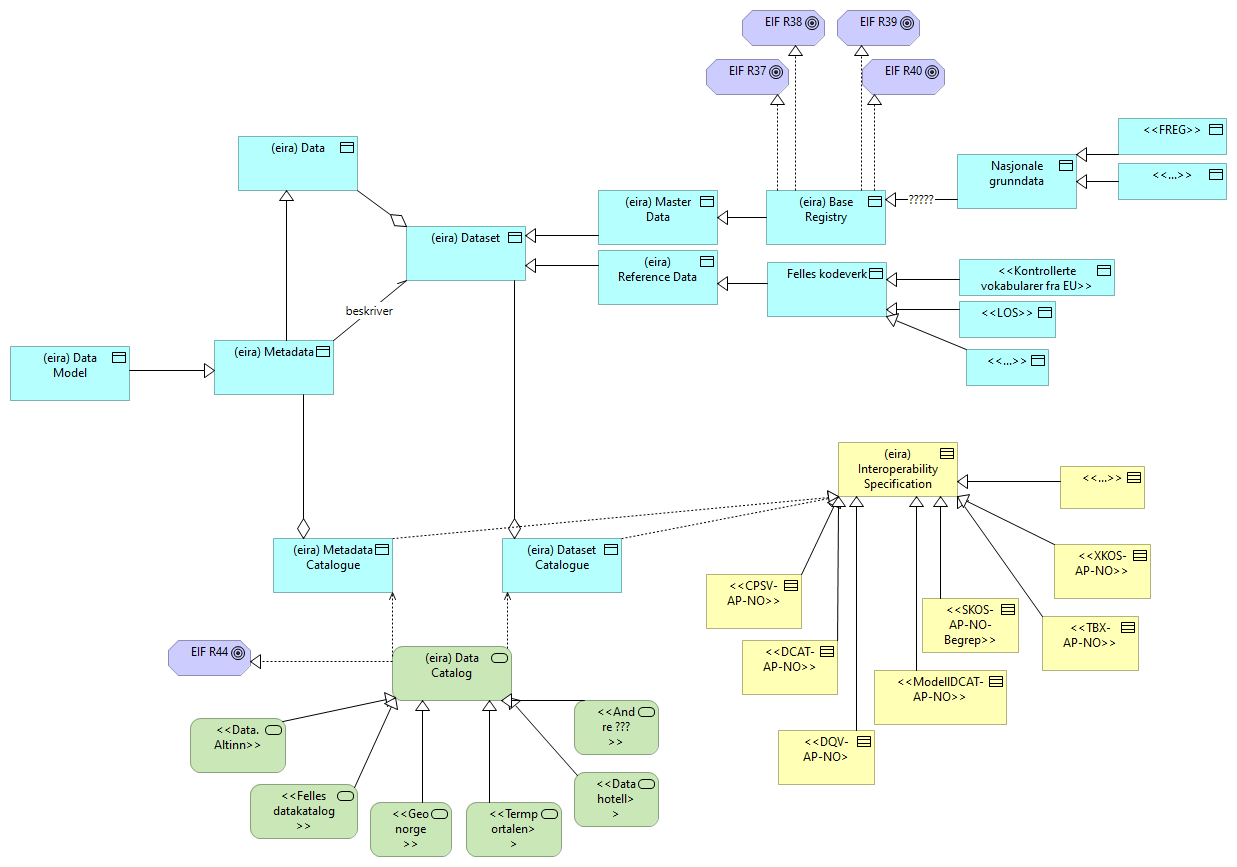
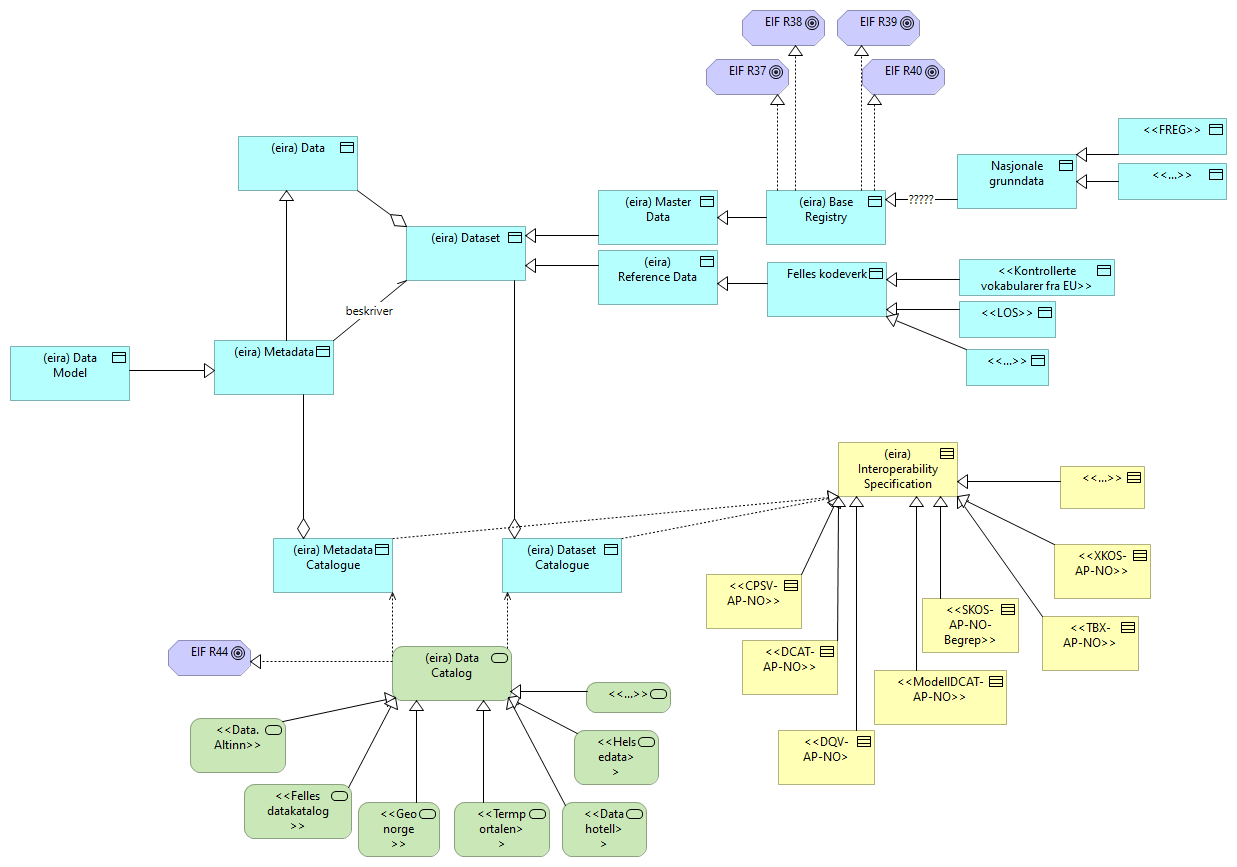
deploy: e71542e0777a68d44411e5489a8d79ed84b36292

Changed region(s): [[0.1843, 0.7785, 0.553, 0.9965], [0.3994, 0.7785, 0.4301, 0.8408], [0.3072, 0.8097, 0.3379, 0.8408]]

diff --git a/oora-no/id-e7b39d43f3014ac6a92956a29090d70b/views/id-5de92c61b5d4459e95495d6223f22ca0.html b/oora-no/id-e7b39d43f3014ac6a92956a29090d70b/views/id-5de92c61b5d4459e95495d6223f22ca0.html
@@ -33,6 +33,7 @@
 		    <!-- If this is a digram model (has children and no bounds) show the image -->
 			   <img class="diagram" src="../images/id-5de92c61b5d4459e95495d6223f22ca0.png" alt="Sematic view" usemap="#id-5de92c61b5d4459e95495d6223f22ca0map"/>
 			   <map name="id-5de92c61b5d4459e95495d6223f22ca0map">
+				  		<area shape="rect" coords="586,682,671,713" href="../elements/id-0960458cbc8f4d089259291a773ad31f.html"  target="element">
 				  		<area shape="rect" coords="168,640,251,676" href="../elements/id-557377da4518483383f1ec4ad501e91b.html"  target="element">
 				  		<area shape="rect" coords="862,59,945,95" href="../elements/id-1cc626ef8cf54e148bc5d29df6102a11.html"  target="element">
 				  		<area shape="rect" coords="837,10,920,46" href="../elements/id-0e572a39b8c9426b85b6617b73e018d3.html"  target="element">
@@ -43,11 +44,11 @@
 				  		<area shape="rect" coords="959,259,1115,296" href="../elements/id-ac1dc257e22d4ad28687fddd94a63ebf.html"  target="element">
 				  		<area shape="rect" coords="966,349,1049,386" href="../elements/id-c2f8ac6da36a45b18d23441456d9078c.html"  target="element">
 				  		<area shape="rect" coords="959,301,1056,338" href="../elements/id-db0ad7c8849b463389c88116a1396c9c.html"  target="element">
-				  		<area shape="rect" coords="574,700,659,755" href="../elements/id-383dd62ba96b4076ba7d71b5b627e559.html"  target="element">
-				  		<area shape="rect" coords="574,772,659,827" href="../elements/id-e588caf0442545069fc144f33d42cb2f.html"  target="element">
-				  		<area shape="rect" coords="466,802,562,857" href="../elements/id-804cd896c8b4464496ce34e3be75c155.html"  target="element">
-				  		<area shape="rect" coords="370,802,452,857" href="../elements/id-65556feec63b443da5c997153a76ee25.html"  target="element">
-				  		<area shape="rect" coords="250,784,358,839" href="../elements/id-c71db61285104a15ba9d77280dfb481a.html"  target="element">
+				  		<area shape="rect" coords="574,730,659,785" href="../elements/id-383dd62ba96b4076ba7d71b5b627e559.html"  target="element">
+				  		<area shape="rect" coords="562,802,647,857" href="../elements/id-e588caf0442545069fc144f33d42cb2f.html"  target="element">
+				  		<area shape="rect" coords="454,802,550,857" href="../elements/id-804cd896c8b4464496ce34e3be75c155.html"  target="element">
+				  		<area shape="rect" coords="358,802,440,857" href="../elements/id-65556feec63b443da5c997153a76ee25.html"  target="element">
+				  		<area shape="rect" coords="244,784,352,839" href="../elements/id-c71db61285104a15ba9d77280dfb481a.html"  target="element">
 				  		<area shape="rect" coords="190,718,286,773" href="../elements/id-83450a8716b04de99d612d7ae0e8e2d1.html"  target="element">
 				  		<area shape="rect" coords="1060,466,1145,509" href="../elements/id-d89260a03adb404da2f017a74a592aef.html"  target="element">
 				  		<area shape="rect" coords="778,730,875,785" href="../elements/id-1a27c781075e426b84feb883f07f2c91.html"  target="element">
@@ -270,7 +271,7 @@
 											</tr>
 
 											<tr>
-											    <td> <a href="../elements/id-383dd62ba96b4076ba7d71b5b627e559.html" target="element"> &lt;&lt;Andre ???&gt;&gt; </a> </td>
+											    <td> <a href="../elements/id-383dd62ba96b4076ba7d71b5b627e559.html" target="element"> &lt;&lt;Helsedata&gt;&gt; </a> </td>
 											    <td> <a href="../elements/id-383dd62ba96b4076ba7d71b5b627e559.html" target="element" class="i18n-elementtype-TechnologyService">
 											    </a> </td>
 											</tr>
@@ -332,6 +333,12 @@
 											<tr>
 											    <td> <a href="../elements/id-557377da4518483383f1ec4ad501e91b.html" target="element"> EIF R44 </a> </td>
 											    <td> <a href="../elements/id-557377da4518483383f1ec4ad501e91b.html" target="element" class="i18n-elementtype-Goal">
+											    </a> </td>
+											</tr>
+
+											<tr>
+											    <td> <a href="../elements/id-0960458cbc8f4d089259291a773ad31f.html" target="element"> &lt;&lt;...&gt;&gt; </a> </td>
+											    <td> <a href="../elements/id-0960458cbc8f4d089259291a773ad31f.html" target="element" class="i18n-elementtype-TechnologyService">
 											    </a> </td>
 											</tr>
 
@@ -609,7 +616,7 @@
 																		<td> <a href="../elements/id-5fcd964946644708b71a5059888e6af3.html" target="element">  </a> </td>
 																		<td> <a href="../elements/id-5fcd964946644708b71a5059888e6af3.html" target="element" class="i18n-elementtype-SpecializationRelationship">
 																		</a> </td>
-																		<td> <a href="../elements/id-383dd62ba96b4076ba7d71b5b627e559.html" target="element"> &lt;&lt;Andre ???&gt;&gt; </a> </td>
+																		<td> <a href="../elements/id-383dd62ba96b4076ba7d71b5b627e559.html" target="element"> &lt;&lt;Helsedata&gt;&gt; </a> </td>
 																		<td> <a href="../elements/id-3c57cbffce084509bea1ae56d3540076.html" target="element"> (eira) Data Catalog </a> </td>
 																	</tr>
 
@@ -651,6 +658,14 @@
 																		</a> </td>
 																		<td> <a href="../elements/id-0d314902d18e4fae82327eab871121b2.html" target="element"> &lt;&lt;...&gt;&gt; </a> </td>
 																		<td> <a href="../elements/id-97b727c622f5481bbaf1479215fa5de0.html" target="element"> Nasjonale grunndata </a> </td>
+																	</tr>
+
+																	<tr>
+																		<td> <a href="../elements/id-b0bc710df12a4a0fa6fb632b80100a8d.html" target="element">  </a> </td>
+																		<td> <a href="../elements/id-b0bc710df12a4a0fa6fb632b80100a8d.html" target="element" class="i18n-elementtype-SpecializationRelationship">
+																		</a> </td>
+																		<td> <a href="../elements/id-0960458cbc8f4d089259291a773ad31f.html" target="element"> &lt;&lt;...&gt;&gt; </a> </td>
+																		<td> <a href="../elements/id-3c57cbffce084509bea1ae56d3540076.html" target="element"> (eira) Data Catalog </a> </td>
 																	</tr>
 
 

diff --git a/oora-no/id-e7b39d43f3014ac6a92956a29090d70b/elements/model.html b/oora-no/id-e7b39d43f3014ac6a92956a29090d70b/elements/model.html
@@ -261,8 +261,12 @@
 													dataProperties.push({conceptid:"id-e588caf0442545069fc144f33d42cb2f", propkey:decodeURL("dct%3Atitle"), propvalue:decodeURL("Datahotell")});
 
 									dataFoldersContent.push({folderid:"id-b0698bbaa9ea4348acffd1faf8f800f9", contentid:"id-383dd62ba96b4076ba7d71b5b627e559", contenttype:"TechnologyService"});
-										dataElements.push({id:"id-383dd62ba96b4076ba7d71b5b627e559", type:"TechnologyService", specialization:decodeURL(""), name:decodeURL("%3C%3CAndre+%3F%3F%3F%3E%3E"), documentation:decodeURL("Andre+kataloger+...+som++...")});
+										dataElements.push({id:"id-383dd62ba96b4076ba7d71b5b627e559", type:"TechnologyService", specialization:decodeURL(""), name:decodeURL("%3C%3CHelsedata%3E%3E"), documentation:decodeURL("https%3A%2F%2Fhelsedata.no%2F")});
 													dataProperties.push({conceptid:"id-383dd62ba96b4076ba7d71b5b627e559", propkey:decodeURL("dct%3Atitle"), propvalue:decodeURL("Andre+kataloger")});
+
+									dataFoldersContent.push({folderid:"id-b0698bbaa9ea4348acffd1faf8f800f9", contentid:"id-0960458cbc8f4d089259291a773ad31f", contenttype:"TechnologyService"});
+										dataElements.push({id:"id-0960458cbc8f4d089259291a773ad31f", type:"TechnologyService", specialization:decodeURL(""), name:decodeURL("%3C%3C...%3E%3E"), documentation:decodeURL("Andre+kataloger+...+som++...")});
+													dataProperties.push({conceptid:"id-0960458cbc8f4d089259291a773ad31f", propkey:decodeURL("dct%3Atitle"), propvalue:decodeURL("Andre+kataloger")});
 
 
 								dataFoldersContent.push({folderid:"id-e7b39d43f3014ac6a92956a29090d70b", contentid:"id-09abd83ef6ea49a087df9593f842dc94", contenttype:"Folder"});
@@ -390,6 +394,8 @@
 										dataRelationships.push({id:"id-7c126def35fb44d59431e2e1ee3d8e2a", type:"RealizationRelationship", specialization:decodeURL(""), name:decodeURL(""), documentation:decodeURL(""), sourceid:"id-3c57cbffce084509bea1ae56d3540076", targetid:"id-557377da4518483383f1ec4ad501e91b"});
 									dataFoldersContent.push({folderid:"id-61680c6097884adbb1b28284f16992e0", contentid:"id-ae93a86013ef4972918e19849b7b3cce", contenttype:"AggregationRelationship"});
 										dataRelationships.push({id:"id-ae93a86013ef4972918e19849b7b3cce", type:"AggregationRelationship", specialization:decodeURL(""), name:decodeURL(""), documentation:decodeURL(""), sourceid:"id-b9ee3221960a468c83a43e16049b6638", targetid:"id-0b02f941f4164f67b84e1891d16431fa"});
+									dataFoldersContent.push({folderid:"id-61680c6097884adbb1b28284f16992e0", contentid:"id-b0bc710df12a4a0fa6fb632b80100a8d", contenttype:"SpecializationRelationship"});
+										dataRelationships.push({id:"id-b0bc710df12a4a0fa6fb632b80100a8d", type:"SpecializationRelationship", specialization:decodeURL(""), name:decodeURL(""), documentation:decodeURL(""), sourceid:"id-0960458cbc8f4d089259291a773ad31f", targetid:"id-3c57cbffce084509bea1ae56d3540076"});
 
 								dataFoldersContent.push({folderid:"id-e7b39d43f3014ac6a92956a29090d70b", contentid:"id-d0a6a2b9d98a4691b95106f7a6c6ce30", contenttype:"Folder"});
 								dataFolders.push({id:"id-d0a6a2b9d98a4691b95106f7a6c6ce30", type:"Folder", name:decodeURL("Views"), documentation:decodeURL("")});
@@ -483,6 +489,7 @@
 												dataViewsContent.push({viewid:"id-5de92c61b5d4459e95495d6223f22ca0", contentid:"id-0e572a39b8c9426b85b6617b73e018d3", contenttype:"Goal"});
 												dataViewsContent.push({viewid:"id-5de92c61b5d4459e95495d6223f22ca0", contentid:"id-1cc626ef8cf54e148bc5d29df6102a11", contenttype:"Goal"});
 												dataViewsContent.push({viewid:"id-5de92c61b5d4459e95495d6223f22ca0", contentid:"id-557377da4518483383f1ec4ad501e91b", contenttype:"Goal"});
+												dataViewsContent.push({viewid:"id-5de92c61b5d4459e95495d6223f22ca0", contentid:"id-0960458cbc8f4d089259291a773ad31f", contenttype:"TechnologyService"});
 
 																		dataViewsContent.push({viewid:"id-5de92c61b5d4459e95495d6223f22ca0", contentid:"id-fd72e29e0da94128bdffda2004c98680", contenttype:"SpecializationRelationship"});
 																		dataViewsContent.push({viewid:"id-5de92c61b5d4459e95495d6223f22ca0", contentid:"id-f0e43ce10a6749e2836b23663c0cad14", contenttype:"RealizationRelationship"});
@@ -552,6 +559,8 @@
 																		dataViewsContent.push({viewid:"id-5de92c61b5d4459e95495d6223f22ca0", contentid:"id-66eae5ef8e9543359452e893ec7ffa64", contenttype:"SpecializationRelationship"});
 
 																		dataViewsContent.push({viewid:"id-5de92c61b5d4459e95495d6223f22ca0", contentid:"id-6e62868710194224bbce9235ff398081", contenttype:"SpecializationRelationship"});
+
+																		dataViewsContent.push({viewid:"id-5de92c61b5d4459e95495d6223f22ca0", contentid:"id-b0bc710df12a4a0fa6fb632b80100a8d", contenttype:"SpecializationRelationship"});
 
 
 

diff --git a/oora-no/index.html b/oora-no/index.html
@@ -110,7 +110,8 @@
 													<li class="tree-element   "><a href="id-e7b39d43f3014ac6a92956a29090d70b/elements/id-804cd896c8b4464496ce34e3be75c155.html" target="element"> &lt;&lt;Termportalen&gt;&gt; </a></li>
 													<li class="tree-element   "><a href="id-e7b39d43f3014ac6a92956a29090d70b/elements/id-83450a8716b04de99d612d7ae0e8e2d1.html" target="element"> &lt;&lt;Data. Altinn&gt;&gt; </a></li>
 													<li class="tree-element   "><a href="id-e7b39d43f3014ac6a92956a29090d70b/elements/id-e588caf0442545069fc144f33d42cb2f.html" target="element"> &lt;&lt;Datahotell&gt;&gt; </a></li>
-													<li class="tree-element  "><a href="id-e7b39d43f3014ac6a92956a29090d70b/elements/id-383dd62ba96b4076ba7d71b5b627e559.html" target="element"> &lt;&lt;Andre ???&gt;&gt; </a></li>
+													<li class="tree-element  "><a href="id-e7b39d43f3014ac6a92956a29090d70b/elements/id-383dd62ba96b4076ba7d71b5b627e559.html" target="element"> &lt;&lt;Helsedata&gt;&gt; </a></li>
+													<li class="tree-element  "><a href="id-e7b39d43f3014ac6a92956a29090d70b/elements/id-0960458cbc8f4d089259291a773ad31f.html" target="element"> &lt;&lt;...&gt;&gt; </a></li>
 
 									</ul>
 								</li>
@@ -296,7 +297,7 @@
 													</a></li>
 													<li class="tree-element "><a href="id-e7b39d43f3014ac6a92956a29090d70b/elements/id-5fcd964946644708b71a5059888e6af3.html" target="element">
 															<span class="i18n-elementtype-SpecializationRelationship"></span>
-														(&lt;&lt;Andre ???&gt;&gt; - (eira) Data Catalog) 
+														(&lt;&lt;Helsedata&gt;&gt; - (eira) Data Catalog) 
 													</a></li>
 													<li class="tree-element "><a href="id-e7b39d43f3014ac6a92956a29090d70b/elements/id-bf471f3d279a4542a26b8b3a418bc344.html" target="element">
 															<span class="i18n-elementtype-SpecializationRelationship"></span>
@@ -341,6 +342,10 @@
 													<li class="tree-element "><a href="id-e7b39d43f3014ac6a92956a29090d70b/elements/id-ae93a86013ef4972918e19849b7b3cce.html" target="element">
 															<span class="i18n-elementtype-AggregationRelationship"></span>
 														(Evne &#229; dele data med andre - ...) 
+													</a></li>
+													<li class="tree-element "><a href="id-e7b39d43f3014ac6a92956a29090d70b/elements/id-b0bc710df12a4a0fa6fb632b80100a8d.html" target="element">
+															<span class="i18n-elementtype-SpecializationRelationship"></span>
+														(&lt;&lt;...&gt;&gt; - (eira) Data Catalog) 
 													</a></li>
 
 									</ul>

diff --git a/oora-no/id-e7b39d43f3014ac6a92956a29090d70b/elements/id-b0bc710df12a4a0fa6fb632b80100a8d.html b/oora-no/id-e7b39d43f3014ac6a92956a29090d70b/elements/id-b0bc710df12a4a0fa6fb632b80100a8d.html
@@ -2,7 +2,7 @@
 <html class="frame" lang="en">
 <head>
 	<meta http-equiv="Content-Type" content="text/html;charset=utf-8">
-	<title><<Helsedata>></title>
+	<title></title>
 
 	<!-- JQUERY -->
 	<script type="text/javascript" src="../../lib/jquery/jquery.min.js"></script>
@@ -21,11 +21,10 @@
 
 		<div class="panel-heading root-panel-heading">
             <!-- Name -->
-               <b>&lt;&lt;Helsedata&gt;&gt;</b>
-
+               <b class="i18n-elementtype-SpecializationRelationship"></b>
             <!-- If a View with Viewpoint -->
-			   (<span class="i18n-elementtype-TechnologyService"></span>)
-			   <a class="glyphicon glyphicon-info-sign" id="hint-TechnologyService" target="hint"></a>
+			   (<span class="i18n-elementtype-SpecializationRelationship"></span>)
+			   <a class="glyphicon glyphicon-info-sign" id="hint-SpecializationRelationship" target="hint"></a>
 		</div>
 
 		<div class="panel-body root-panel-body">
@@ -45,7 +44,19 @@
 				<!-- Tab panes -->
 				<div class="tab-content">
 					<div role="tabpanel" class="tab-pane active" id="documentation">
-						<div class="convertlinks documentation" style="white-space:pre-wrap">https://helsedata.no/</div>
+							<br>
+							<b class="i18n-relation-source"></b>
+								<a href="../elements/id-0960458cbc8f4d089259291a773ad31f.html" target="element">
+									&lt;&lt;...&gt;&gt;
+								</a>
+							<br>
+							<b class="i18n-relation-target"></b>
+								<a href="../elements/id-3c57cbffce084509bea1ae56d3540076.html" target="element">
+									(eira) Data Catalog
+								</a>
+							<br>
+							<br>
+						<div class="convertlinks documentation" style="white-space:pre-wrap"></div>
 					</div>
 					<div role="tabpanel" class="tab-pane" id="properties">
 						<table class="table table-striped table-hover table-condensed">
@@ -56,7 +67,6 @@
 								</tr>
 							</thead>
 							<tbody>
-								<tr><td>dct:title</td><td class="convertlinks no-margin" style="white-space:pre-wrap">Andre kataloger</td></tr>
 							</tbody>
 						</table>
 					</div>

diff --git a/oora-no/id-e7b39d43f3014ac6a92956a29090d70b/elements/id-0960458cbc8f4d089259291a773ad31f.html b/oora-no/id-e7b39d43f3014ac6a92956a29090d70b/elements/id-0960458cbc8f4d089259291a773ad31f.html
@@ -2,7 +2,7 @@
 <html class="frame" lang="en">
 <head>
 	<meta http-equiv="Content-Type" content="text/html;charset=utf-8">
-	<title><<Helsedata>></title>
+	<title><<...>></title>
 
 	<!-- JQUERY -->
 	<script type="text/javascript" src="../../lib/jquery/jquery.min.js"></script>
@@ -21,7 +21,7 @@
 
 		<div class="panel-heading root-panel-heading">
             <!-- Name -->
-               <b>&lt;&lt;Helsedata&gt;&gt;</b>
+               <b>&lt;&lt;...&gt;&gt;</b>
 
             <!-- If a View with Viewpoint -->
 			   (<span class="i18n-elementtype-TechnologyService"></span>)
@@ -45,7 +45,7 @@
 				<!-- Tab panes -->
 				<div class="tab-content">
 					<div role="tabpanel" class="tab-pane active" id="documentation">
-						<div class="convertlinks documentation" style="white-space:pre-wrap">https://helsedata.no/</div>
+						<div class="convertlinks documentation" style="white-space:pre-wrap">Andre kataloger ... som  ...</div>
 					</div>
 					<div role="tabpanel" class="tab-pane" id="properties">
 						<table class="table table-striped table-hover table-condensed">

diff --git a/oora-no/id-e7b39d43f3014ac6a92956a29090d70b/elements/id-5fcd964946644708b71a5059888e6af3.html b/oora-no/id-e7b39d43f3014ac6a92956a29090d70b/elements/id-5fcd964946644708b71a5059888e6af3.html
@@ -47,7 +47,7 @@
 							<br>
 							<b class="i18n-relation-source"></b>
 								<a href="../elements/id-383dd62ba96b4076ba7d71b5b627e559.html" target="element">
-									&lt;&lt;Andre ???&gt;&gt;
+									&lt;&lt;Helsedata&gt;&gt;
 								</a>
 							<br>
 							<b class="i18n-relation-target"></b>
